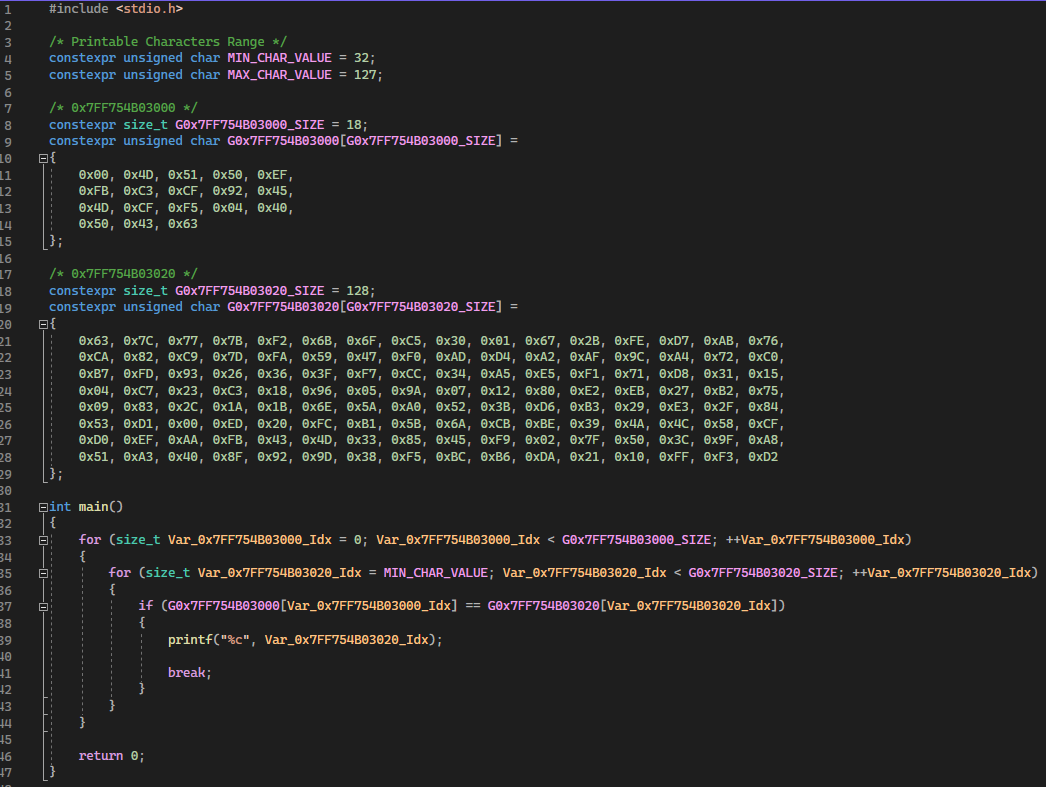
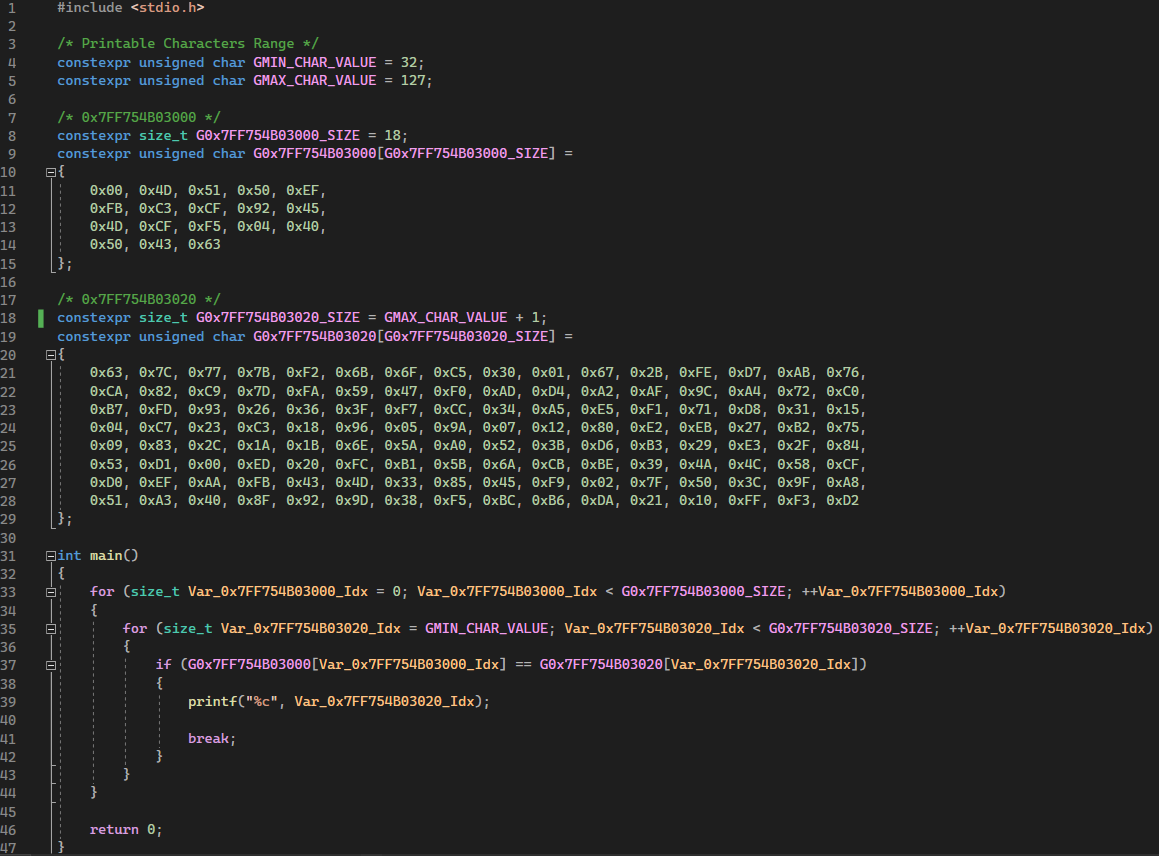
Modified variable name.

Changed region(s): [[0.0, 0.0, 1.0, 1.0], [0.0918, 0.8844, 0.1224, 0.9149]]

diff --git a/Problem6/rev-basic-6.cpp b/Problem6/rev-basic-6.cpp
@@ -1,8 +1,8 @@
 #include <stdio.h>
 
 /* Printable Characters Range */
-constexpr unsigned char MIN_CHAR_VALUE = 32;
-constexpr unsigned char MAX_CHAR_VALUE = 127;
+constexpr unsigned char GMIN_CHAR_VALUE = 32;
+constexpr unsigned char GMAX_CHAR_VALUE = 127;
 
 /* 0x7FF754B03000 */
 constexpr size_t G0x7FF754B03000_SIZE = 18;
@@ -15,7 +15,7 @@ constexpr unsigned char G0x7FF754B03000[G0x7FF754B03000_SIZE] =
 };
 
 /* 0x7FF754B03020 */
-constexpr size_t G0x7FF754B03020_SIZE = 128;
+constexpr size_t G0x7FF754B03020_SIZE = GMAX_CHAR_VALUE + 1;
 constexpr unsigned char G0x7FF754B03020[G0x7FF754B03020_SIZE] =
 {
 	0x63, 0x7C, 0x77, 0x7B, 0xF2, 0x6B, 0x6F, 0xC5, 0x30, 0x01, 0x67, 0x2B, 0xFE, 0xD7, 0xAB, 0x76,
@@ -32,7 +32,7 @@ int main()
 {
 	for (size_t Var_0x7FF754B03000_Idx = 0; Var_0x7FF754B03000_Idx < G0x7FF754B03000_SIZE; ++Var_0x7FF754B03000_Idx)
 	{
-		for (size_t Var_0x7FF754B03020_Idx = MIN_CHAR_VALUE; Var_0x7FF754B03020_Idx < G0x7FF754B03020_SIZE; ++Var_0x7FF754B03020_Idx)
+		for (size_t Var_0x7FF754B03020_Idx = GMIN_CHAR_VALUE; Var_0x7FF754B03020_Idx < G0x7FF754B03020_SIZE; ++Var_0x7FF754B03020_Idx)
 		{
 			if (G0x7FF754B03000[Var_0x7FF754B03000_Idx] == G0x7FF754B03020[Var_0x7FF754B03020_Idx])
 			{
@@ -46,4 +46,4 @@ int main()
 	return 0;
 }
 
-// Replac3_the_w0rld
+// Output : Replac3_the_w0rld

diff --git a/Problem5/rev-basic-8.cpp b/Problem5/rev-basic-8.cpp
@@ -1,8 +1,8 @@
 #include <stdio.h>
 
 /* Printable Characters Range */
-constexpr unsigned char MIN_CHAR_VALUE = 32;
-constexpr unsigned char MAX_CHAR_VALUE = 127;
+constexpr unsigned char GMIN_CHAR_VALUE = 32;
+constexpr unsigned char GMAX_CHAR_VALUE = 127;
 
 /* Array of value to compare */
 constexpr size_t GVALUE_TO_COMPARE_ARRAY_SIZE = 21;
@@ -19,7 +19,7 @@ int main()
 {
 	for (size_t ArrayIdx = 0; ArrayIdx < GVALUE_TO_COMPARE_ARRAY_SIZE; ++ArrayIdx)
 	{
-		for (unsigned char Char = MIN_CHAR_VALUE; Char <= MAX_CHAR_VALUE; ++Char)
+		for (unsigned char Char = GMIN_CHAR_VALUE; Char <= GMAX_CHAR_VALUE; ++Char)
 		{
 			const unsigned char MulValue = 0xFB * Char;
 
